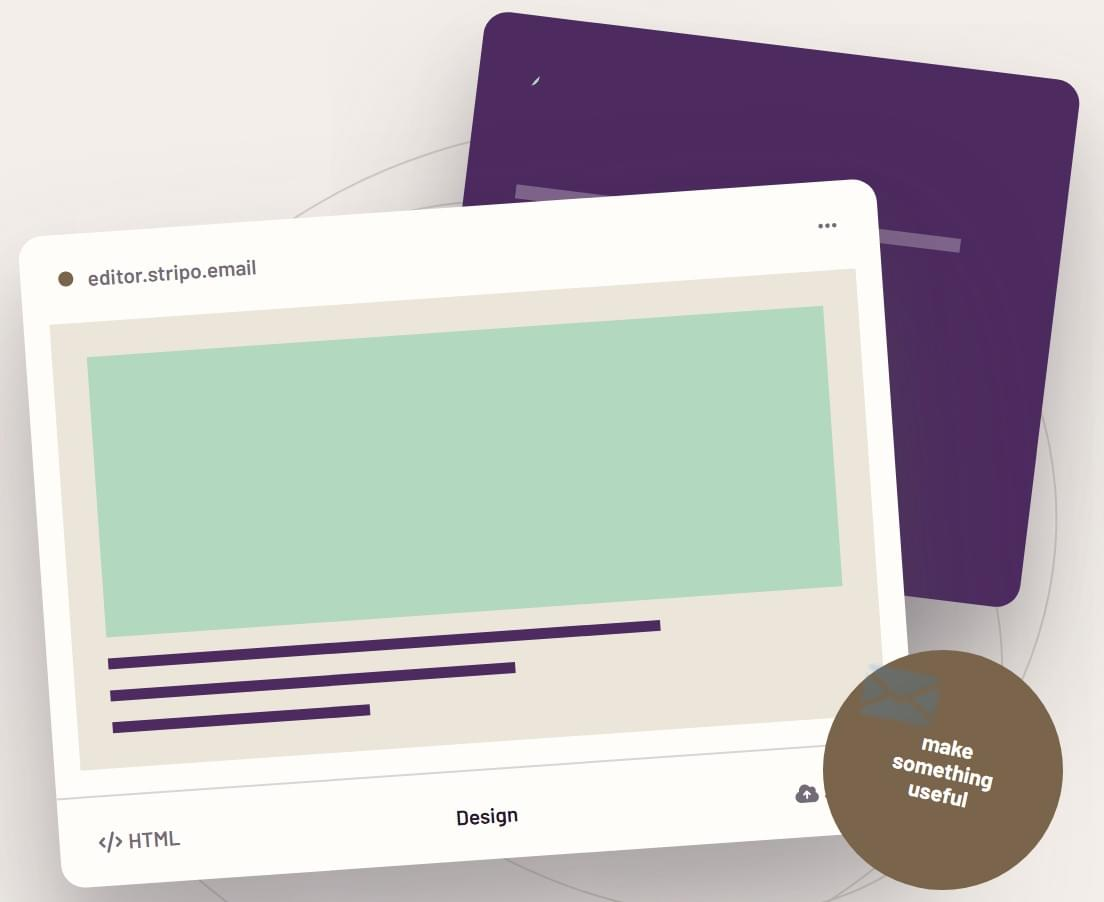
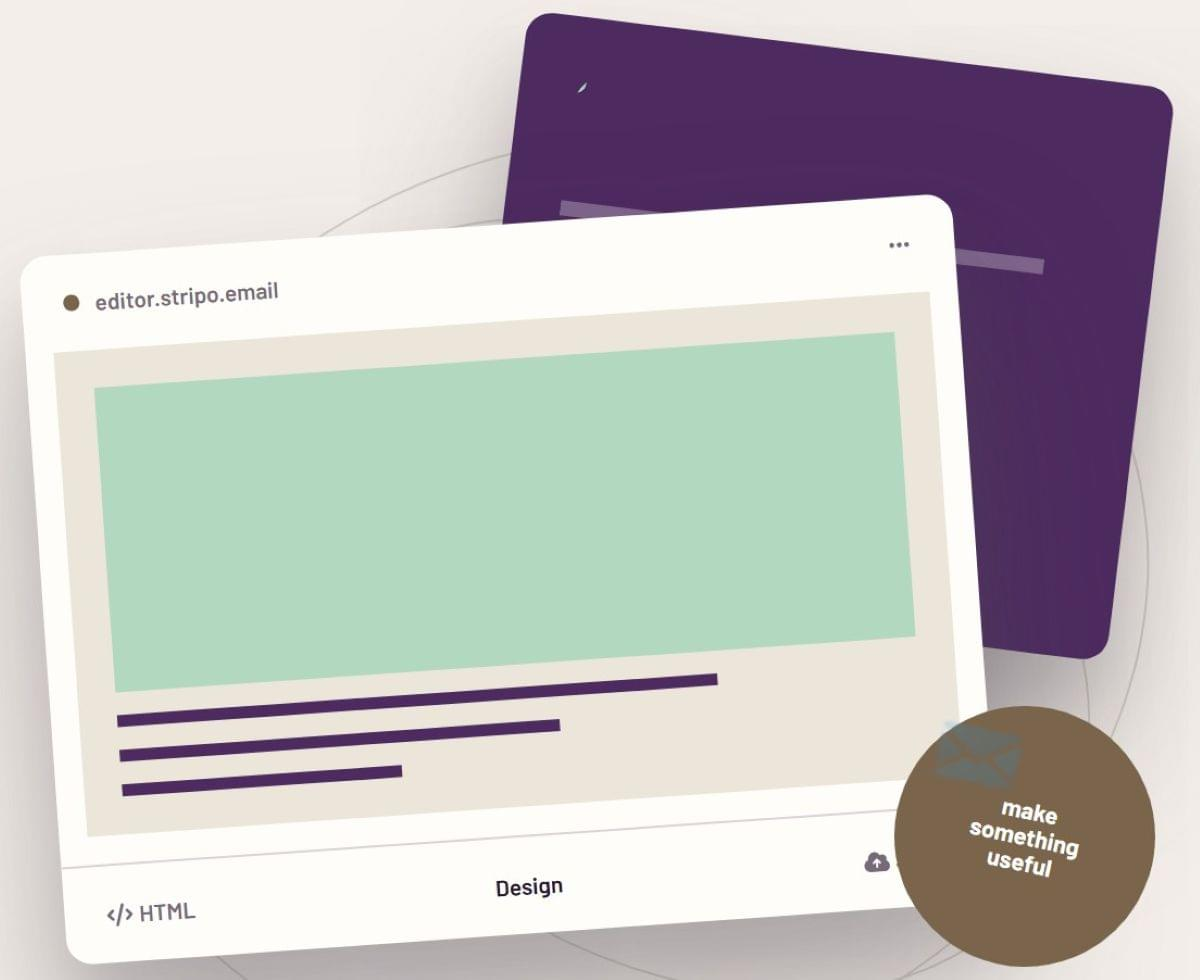
updated files

diff --git a/index.html b/index.html
@@ -5,7 +5,7 @@
   "description": "Build, preview, and manage Stripo email templates locally with a lightweight developer kit that keeps your project files and credentials on your machine.",
   "url": "https://crendon213wp.github.io/local-stripo-api/",
   "inLanguage": "en"
-}</script><link rel="icon" type="image/png" sizes="32x32" href="images/favicon-32x32.png"><link rel="icon" type="image/svg+xml" href="images/favicon.svg"><link rel="apple-touch-icon" sizes="180x180" href="images/apple-touch-icon.png"><link rel="manifest" href="/local-stripo-api/site.webmanifest"><meta property="og:title" content="Local Dev Kit for Stripo Plugin"><meta property="og:description" content="Build, preview, and manage Stripo email templates locally with a lightweight developer kit that keeps your project files and credentials on your machine."><meta property="og:url" content="https://crendon213wp.github.io/local-stripo-api/"><meta property="og:type" content="website"><meta property="og:site_name" content="Local Dev Kit for Stripo Plugin"><meta property="og:locale" content="en_US"><meta property="og:image" content="https://crendon213wp.github.io/local-stripo-api/images/envelope.jpg"><meta property="og:image:alt" content="Local Dev Kit for Stripo Plugin home page preview"><meta property="og:image:type" content="image/jpeg"><meta name="twitter:card" content="summary_large_image"><meta name="twitter:title" content="Local Dev Kit for Stripo Plugin | Local-first email production"><meta name="twitter:description" content="Build, preview, and manage Stripo email templates locally with a lightweight developer kit that keeps your project files and credentials on your machine."><meta name="twitter:image" content="https://crendon213wp.github.io/local-stripo-api/images/envelope.jpg"><meta name="twitter:image:alt" content="Local Dev Kit for Stripo Plugin home page preview"><link rel="preconnect" href="https://fonts.googleapis.com"><link rel="preconnect" href="https://fonts.gstatic.com" crossorigin><link href="https://fonts.googleapis.com/css2?family=Barlow:ital,wght@0,100;0,200;0,300;0,400;0,500;0,600;0,700;0,800;0,900;1,100;1,200;1,300;1,400;1,500;1,600;1,700;1,800;1,900&family=Montserrat:ital,wght@0,100..900;1,100..900&family=Space+Grotesk:ital,wght@0,100..900;1,100..900&family=Merriweather:ital,wght@0,100;0,200;0,300;0,400;0,500;0,600;0,700;0,800;0,900;1,100;1,200;1,300;1,400;1,500;1,600;1,700;1,800;1,900&display=swap" rel="stylesheet"><link rel="stylesheet" href="https://cdn.jsdelivr.net/npm/bootstrap@5.3.8/dist/css/bootstrap.min.css"><link rel="stylesheet" href="https://cdnjs.cloudflare.com/ajax/libs/font-awesome/7.0.1/css/all.min.css"><link rel="stylesheet" href="css/application.css"><script>(function(w,d,s,l,i){w[l]=w[l]||[];w[l].push({'gtm.start':
+}</script><link rel="icon" type="image/png" sizes="32x32" href="images/favicon-32x32.png"><link rel="icon" type="image/svg+xml" href="images/favicon.svg"><link rel="apple-touch-icon" sizes="180x180" href="images/apple-touch-icon.png"><link rel="manifest" href="/local-stripo-api/site.webmanifest"><meta property="og:title" content="Local Dev Kit for Stripo Plugin"><meta property="og:description" content="Build, preview, and manage Stripo email templates locally with a lightweight developer kit that keeps your project files and credentials on your machine."><meta property="og:url" content="https://crendon213wp.github.io/local-stripo-api/"><meta property="og:type" content="website"><meta property="og:site_name" content="Local Dev Kit for Stripo Plugin"><meta property="og:locale" content="en_US"><meta property="og:image" content="https://crendon213wp.github.io/local-stripo-api/images/envelope.jpg"><meta property="og:image:alt" content="Local Dev Kit for Stripo Plugin home page preview"><meta property="og:image:type" content="image/jpeg"><meta property="og:image:width" content="1200"><meta property="og:image:height" content="980"><meta name="twitter:card" content="summary_large_image"><meta name="twitter:title" content="Local Dev Kit for Stripo Plugin | Local-first email production"><meta name="twitter:description" content="Build, preview, and manage Stripo email templates locally with a lightweight developer kit that keeps your project files and credentials on your machine."><meta name="twitter:image" content="https://crendon213wp.github.io/local-stripo-api/images/envelope.jpg"><meta name="twitter:image:alt" content="Local Dev Kit for Stripo Plugin home page preview"><link rel="preconnect" href="https://fonts.googleapis.com"><link rel="preconnect" href="https://fonts.gstatic.com" crossorigin><link href="https://fonts.googleapis.com/css2?family=Barlow:ital,wght@0,100;0,200;0,300;0,400;0,500;0,600;0,700;0,800;0,900;1,100;1,200;1,300;1,400;1,500;1,600;1,700;1,800;1,900&family=Montserrat:ital,wght@0,100..900;1,100..900&family=Space+Grotesk:ital,wght@0,100..900;1,100..900&family=Merriweather:ital,wght@0,100;0,200;0,300;0,400;0,500;0,600;0,700;0,800;0,900;1,100;1,200;1,300;1,400;1,500;1,600;1,700;1,800;1,900&display=swap" rel="stylesheet"><link rel="stylesheet" href="https://cdn.jsdelivr.net/npm/bootstrap@5.3.8/dist/css/bootstrap.min.css"><link rel="stylesheet" href="https://cdnjs.cloudflare.com/ajax/libs/font-awesome/7.0.1/css/all.min.css"><link rel="stylesheet" href="css/application.css"><script>(function(w,d,s,l,i){w[l]=w[l]||[];w[l].push({'gtm.start':
 new Date().getTime(),event:'gtm.js'});var f=d.getElementsByTagName(s)[0],
 j=d.createElement(s),dl=l!='dataLayer'?'&l='+l:'';j.async=true;j.src=
 'https://www.googletagmanager.com/gtm.js?id='+i+dl;f.parentNode.insertBefore(j,f);
